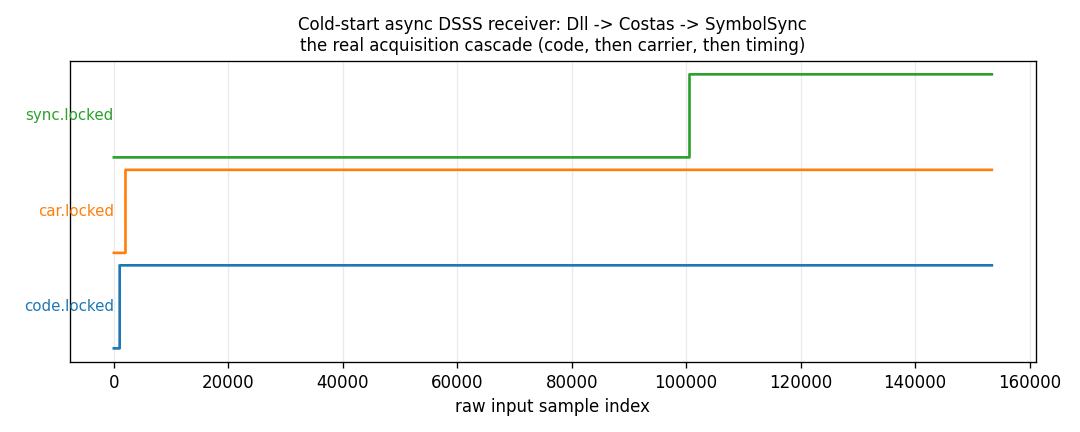
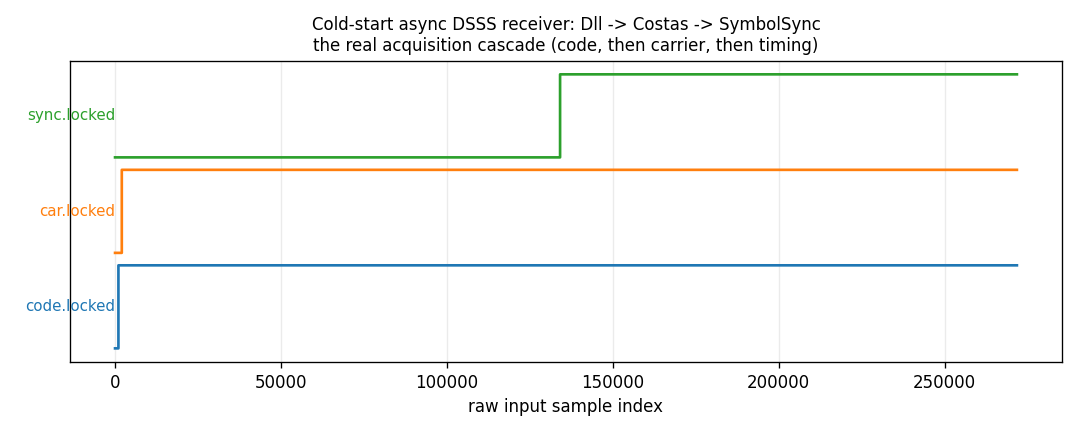
docs(gallery): regenerate the two figures the derived lock counts move
The symsync and RateSync locks now declare after two decisions, one
decision later than before, and drop after six. Two committed gallery
figures move with them (make gallery, on swiftgo-ai9465, from this
branch); both demos are deterministic on main, so the change is the
counts:

- receiver_lock_demo.png: sync.locked (SymbolSync) declares at about
  sample 134,000 where it was 100,500, one 133-symbol decision later;
  code and carrier do not move. The demo still asserts every loop
  locked by the end of its run, now at 87% of it where it was 66%.
- mpsk_receiver_performance_demo.png: the figure moves; nothing the
  demo prints does.

No other example, gallery page or validator output moved: the symsync
lock and lockdet validators and the ratesync, symsync and async spec
demos print the same, and the spec demo's figure is byte-identical.

Refs #3133

Claude-Session: https://claude.ai/code/session_01X5GnVrCvxFSBSrDCauBHYZ

diff --git a/src/doppler/examples/receiver_lock_demo.py b/src/doppler/examples/receiver_lock_demo.py
@@ -27,6 +27,7 @@ import sys
 # --8<-- [start:chain]
 import numpy as np
 
+from doppler.detection import det_verify_count
 from doppler.examples._extra import require
 from doppler.telemetry import Telemetry
 from doppler.track import Costas, Dll, SymbolSync
@@ -36,7 +37,25 @@ SF, SPS, K = 127, 2, 8  # code chips, samples/chip, partials/epoch
 TE = SF * SPS  # code-epoch length, samples
 DSYM = 4e-3  # symbol-vs-code rate offset (independent, async clock)
 F0 = 3e-4  # residual carrier after acquisition, cycles/sample
-NSYM = 600
+# The run is sized from what the slowest lock needs, so its margin is the
+# rule's and not what is left over. SymbolSync locks last: its timing loop
+# settles in about 5 / bn symbols (the loop filter's settling budget), and
+# its lock then declares after N_UP consecutive passing decisions of AVGS
+# symbols each (symsync's sizing: AVGS = 133 at pfa 1e-3 / pd 0.9, and N_UP
+# from the same pfa and the library's per-decision budget of 1e-6,
+# timing_lock_detector.md). That is
+# DECLARE symbols; the run gives the lock twice that, so a change that
+# doubles the time to declare still ends locked.
+BN_TIMING = 0.02
+AVGS = 133
+N_UP = det_verify_count(1e-3, 1e-6)  # 2
+DECLARE = AVGS * (-(-int(5 / BN_TIMING) // AVGS) + N_UP)  # 532 symbols
+NSYM = 2 * DECLARE
+# The telemetry ring holds the whole run: 17 probes, the Costas's seven once
+# a partial (K a code epoch), the rest once an epoch, over NSYM symbols --
+# about 71,000 records. A ring of 1 << 16 overflowed once the run grew to
+# N_UP = 2, so this is the next power of two.
+TLM_CAP = 1 << 17
 
 
 def make_signal(seed=7):
@@ -86,7 +105,7 @@ def run_chain(code, rx, tlm=None, block=2 * TE):
     """
     d = Dll(code, SPS, 0.0, 0.002, 0.707, 0.5, segments=K)
     cos = Costas(bn=0.02, zeta=0.707, tsamps=1)
-    ss = SymbolSync(sps=round(K * (1.0 + DSYM)), bn=0.02, zeta=0.707)
+    ss = SymbolSync(sps=round(K * (1.0 + DSYM)), bn=BN_TIMING, zeta=0.707)
     if tlm is not None:
         d.set_telemetry(tlm, "code")
         cos.set_telemetry(tlm, "car")
@@ -112,7 +131,7 @@ def main(out_path="receiver_lock_demo.png"):
     import matplotlib.pyplot as plt
 
     code, rx = make_signal()
-    tlm = Telemetry(1 << 16)
+    tlm = Telemetry(TLM_CAP)
     d, cos, ss = run_chain(code, rx, tlm)
     assert d.locked and cos.locked and ss.locked
 

diff --git a/docs/gallery/receiver-lock.md b/docs/gallery/receiver-lock.md
@@ -60,7 +60,7 @@ import numpy as np
 from doppler.telemetry import Telemetry
 
 code, rx = make_signal()
-tlm = Telemetry(1 << 16)
+tlm = Telemetry(TLM_CAP)
 d, cos, ss = run_chain(code, rx, tlm)
 assert d.locked and cos.locked and ss.locked  # all three pulled in cold
 
